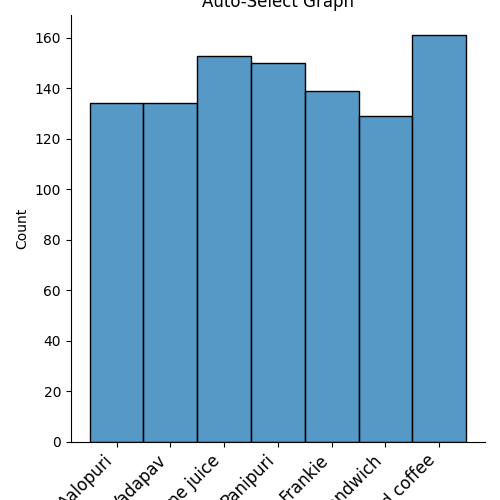
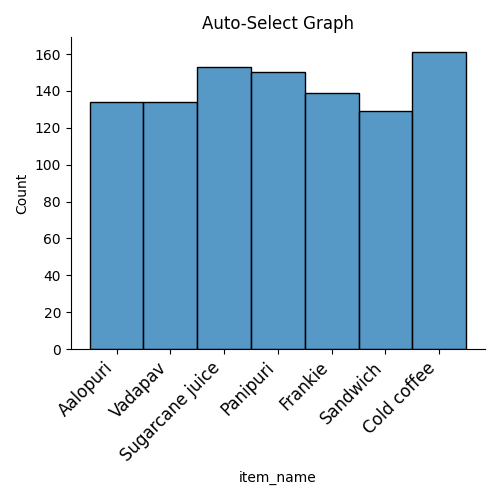
Fix cutoff graph layout

diff --git a/generateGraph.py b/generateGraph.py
@@ -22,6 +22,7 @@ def make_auto(file_name, column_names, graph_name):
     
     my_auto = sns.displot(data=receipt_data[column_names[0]]).set(title=graph_name)
     my_auto.set_xticklabels(rotation=45, horizontalalignment='right', fontweight='light', fontsize='large')
+    my_auto.tight_layout()
 
     my_path = os.path.abspath(__file__)
     # Remove "/generateGraph.py" from file path
